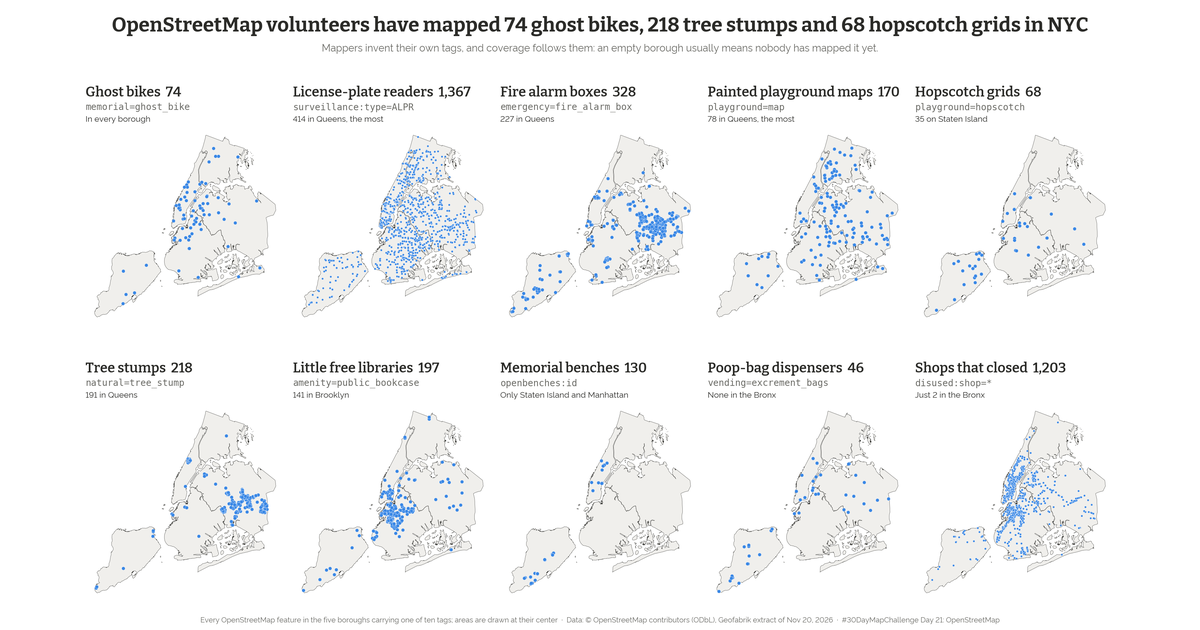
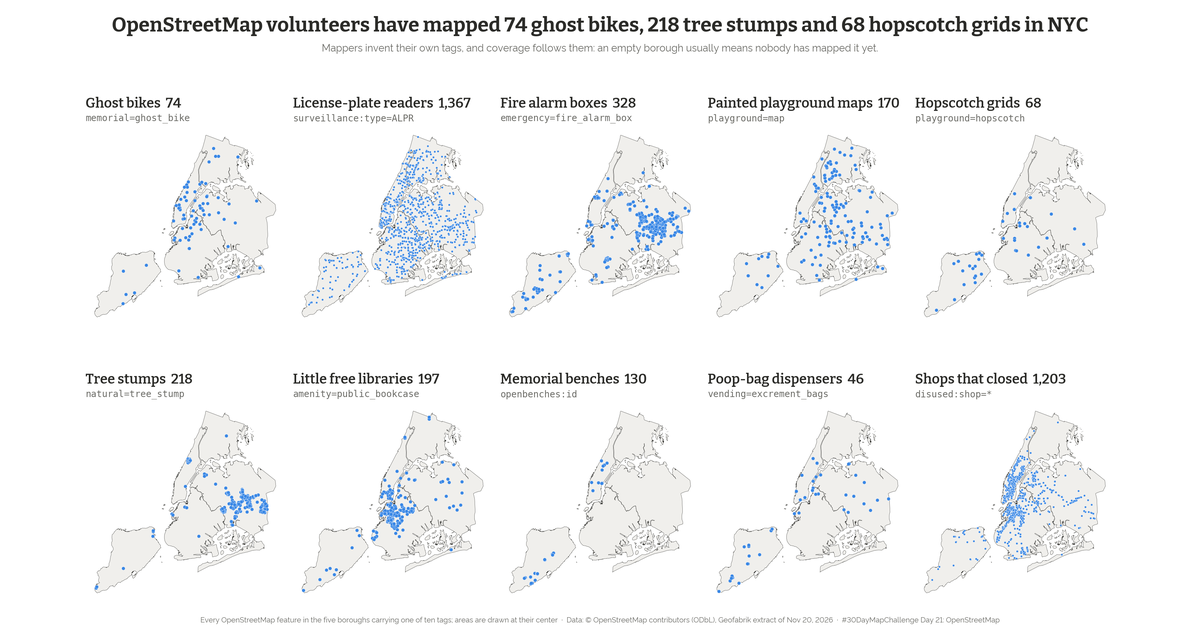
Day 21: drop the per-panel borough notes from the small multiples

diff --git a/day21-openstreetmap/build.py b/day21-openstreetmap/build.py
@@ -94,8 +94,8 @@ DOT = S.C["accent"]   # series blue
 
 
 def draw_panel(ax, v, land, boros, size_small, size_large, fs):
-    """One small map: land, borough lines, the tag's points, and three heading lines above it.
-    fs = (heading, tag, note) font sizes; text offsets are in points so they hold at any figure size."""
+    """One small map: land, borough lines, the tag's points, and two heading lines above it.
+    fs = (heading, tag) font sizes; text offsets are in points so they hold at any figure size."""
     land.plot(ax=ax, color=S.C["ctl"], edgecolor="none")
     boros.boundary.plot(ax=ax, color=S.INK, linewidth=S.MAP["boundary_width"] * 0.6)
     g = v["sel"].geometry
@@ -105,8 +105,7 @@ def draw_panel(ax, v, land, boros, size_small, size_large, fs):
     ax.set_aspect("equal")
     ax.set_anchor("NW")   # map sits right under its heading, left-aligned with it
     lines = [(f"{v['label']}  {v['n']:,}", fs[0], dict(fontweight="semibold", fontfamily=S.HEAD_FONT, color=S.INK)),
-             (v["tag"], fs[1], dict(fontfamily="monospace", color=S.MUTED)),
-             (short_note(v), fs[2], dict(color=S.INK))]
+             (v["tag"], fs[1], dict(fontfamily="monospace", color=S.MUTED))]
     y = 3   # points above the axes top, stacked bottom-up
     for text, size, kw in reversed(lines):
         ax.annotate(text, xy=(0, 1), xycoords="axes fraction", xytext=(0, y), textcoords="offset points",
@@ -119,7 +118,7 @@ def png(views, boros):
     fig.subplots_adjust(left=0.01, right=0.99, top=0.80, bottom=0.04, wspace=0.04, hspace=0.36)
     land = boros.dissolve()
     for ax, v in zip(axes.flat, views):
-        draw_panel(ax, v, land, boros, 14, 5, (S.SIZE["panel_title"], S.SIZE["subtitle"], S.SIZE["annotation"]))
+        draw_panel(ax, v, land, boros, 14, 5, (S.SIZE["panel_title"], S.SIZE["subtitle"]))
     S.title(fig, TITLE)
     fig.text(0.5, 0.918, TAKEAWAY, ha="center", fontsize=S.SIZE["subtitle"] + 1, color=S.MUTED)
     S.credit(fig, f"{METHOD}  ·  {SOURCE}  ·  #30DayMapChallenge {DAY}")
@@ -135,11 +134,11 @@ def linkedin(views, boros):
     cols, rows = 3, 4
     left, right, top, bottom = 0.04, 0.98, 0.855, 0.065
     cw, ch = (right - left) / cols, (top - bottom) / rows
-    head = 0.06   # room for the three heading lines above each map, in figure height
+    head = 0.045   # room for the two heading lines above each map, in figure height
     for i, v in enumerate(views):
         r, c = divmod(i, cols)
         ax = fig.add_axes([left + c * cw, top - (r + 1) * ch + 0.006, cw * 0.94, ch - head - 0.006])
-        draw_panel(ax, v, land, boros, 5, 1.6, (7.5, 5.5, 6))
+        draw_panel(ax, v, land, boros, 5, 1.6, (7.5, 5.5))
     # spare cells (last row, columns 2-3): where to explore it
     fig.text(left + cw, bottom + ch * 0.45, "Hover and click every dot:\n"
              "daniellecarrick.github.io/30-day-map-challenge/day21",
@@ -157,30 +156,6 @@ def linkedin(views, boros):
              color=S.MUTED, linespacing=1.4)
     fig.savefig(OUT / "nyc_folk_tags_linkedin.png", dpi=200)
     plt.close(fig)
-
-
-def at(boro):
-    return f"on {boro}" if boro == "Staten Island" else f"in {boro}"
-
-
-def short_note(v):
-    """Short per-panel callout of the extreme: the borough with the most (or none)."""
-    b, n = v["boro"], v["n"]
-    top, top_n = max(b.items(), key=lambda kv: kv[1])
-    empty = [x for x in BORO_ORDER if b[x] == 0]
-    if v["key"] == "ghost_bike":
-        return "In every borough"
-    if v["key"] == "memorial_bench":
-        return "Only Staten Island and Manhattan"
-    if v["key"] == "closed_shop":
-        return f"Just {b['Bronx']} in the Bronx"
-    if v["key"] == "alpr":
-        return f"{top_n} {at(top)}, the most"
-    if top_n / n >= 0.5:
-        return f"{top_n} {at(top)}"
-    if empty:
-        return f"None in the {empty[0]}"
-    return f"{top_n} {at(top)}, the most"
 
 
 def page(views, boros):
